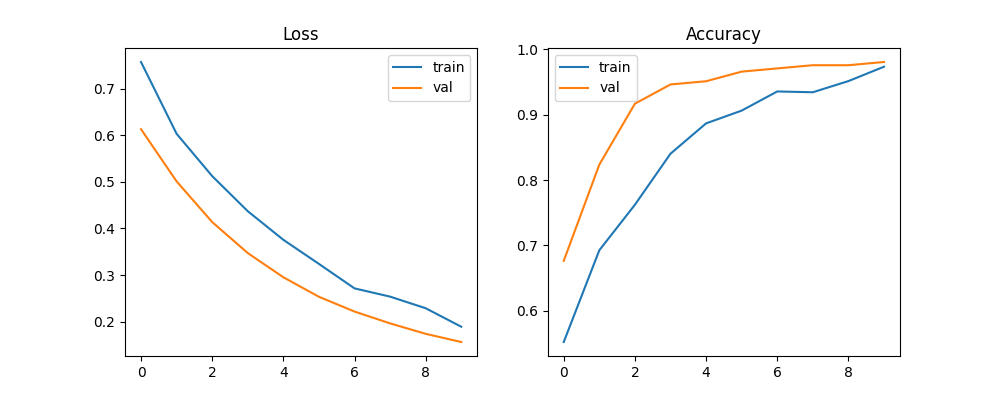
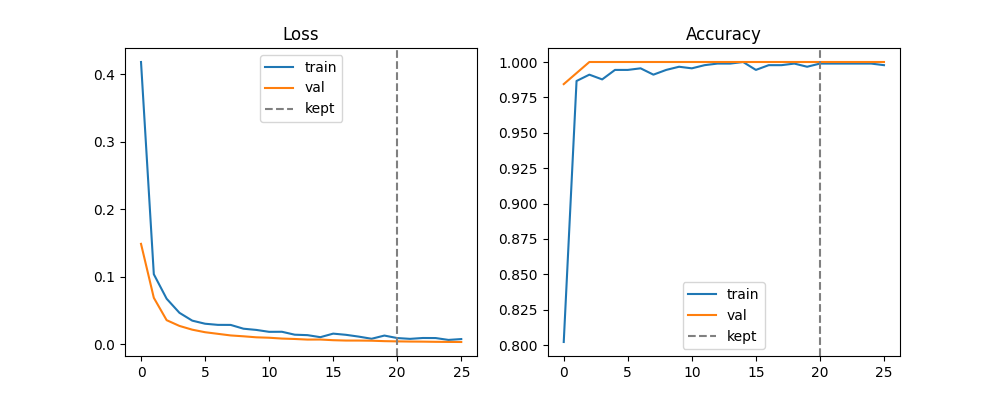
Split dataset by similar photos, add early stopping and retrain model

diff --git a/split_dataset.py b/split_dataset.py
@@ -1,37 +1,102 @@
-# Copies the images into dataset/train and dataset/test for each class,
-# so the test images are never seen during training.
-# Some datasets have the same image saved twice, those copies are skipped.
+# Splits the images into dataset/train, dataset/val and dataset/test.
+# The dataset has many copies of the same photo (saved twice, mirrored, edited
+# or with a mask pasted on), so similar images are put in a group and a whole
+# group always goes to the same folder. Otherwise the model would already have
+# seen most of the test photos and the test accuracy would be too high.
 import argparse
 import hashlib
 import os
 import random
 import shutil
 
+import cv2
+import numpy as np
+
+
+def dhash(img):
+    # 256 bit difference hash, small changes in the image only flip a few bits
+    g = cv2.resize(cv2.cvtColor(img, cv2.COLOR_BGR2GRAY), (17, 16))
+    return (g[:, 1:] > g[:, :-1]).flatten()
+
+
 parser = argparse.ArgumentParser()
 parser.add_argument("--source", required=True, help="folder with with_mask and without_mask")
 parser.add_argument("--dest", default="dataset")
 parser.add_argument("--test", type=float, default=0.2, help="part of images kept for testing")
+parser.add_argument("--val", type=float, default=0.1, help="part of images used for validation")
+parser.add_argument("--max-diff", type=int, default=44, help="hash bits (of 256) that can differ for two similar images")
 args = parser.parse_args()
 
-random.seed(42)
+classes = ("with_mask", "without_mask")
+files = []
+whole, mirror, top, top_mirror = [], [], [], []
 seen = set()
-for cls in ("with_mask", "without_mask"):
-    files = []
-    skipped = 0
+skipped = 0
+for cls in classes:
     for name in sorted(os.listdir(os.path.join(args.source, cls))):
-        with open(os.path.join(args.source, cls, name), "rb") as f:
-            h = hashlib.md5(f.read()).hexdigest()
-        if h in seen:
+        path = os.path.join(args.source, cls, name)
+        with open(path, "rb") as f:
+            md5 = hashlib.md5(f.read()).hexdigest()
+        img = cv2.imread(path)
+        if md5 in seen or img is None:
             skipped += 1
             continue
-        seen.add(h)
-        files.append(name)
+        seen.add(md5)
+        files.append((cls, name))
+        upper = img[: img.shape[0] // 2]  # eyes and hair, not covered by a mask
+        whole.append(dhash(img))
+        mirror.append(dhash(cv2.flip(img, 1)))
+        top.append(dhash(upper))
+        top_mirror.append(dhash(cv2.flip(upper, 1)))
+print(len(files), "images,", skipped, "exact copies or unreadable files skipped")
 
-    random.shuffle(files)
-    n_test = int(len(files) * args.test)
-    for i, name in enumerate(files):
-        part = "test" if i < n_test else "train"
+whole, mirror = np.array(whole), np.array(mirror)
+top, top_mirror = np.array(top), np.array(top_mirror)
+
+# join similar images into groups (union find)
+parent = list(range(len(files)))
+
+
+def find(i):
+    while parent[i] != i:
+        parent[i] = parent[parent[i]]
+        i = parent[i]
+    return i
+
+
+for i in range(len(files)):
+    d_whole = np.minimum((whole != whole[i]).sum(1), (mirror != whole[i]).sum(1))
+    d_top = np.minimum((top != top[i]).sum(1), (top_mirror != top[i]).sum(1))
+    for j in np.where((d_whole <= args.max_diff) | (d_top <= args.max_diff))[0]:
+        parent[find(j)] = find(i)
+
+groups = {}
+for i in range(len(files)):
+    groups.setdefault(find(i), []).append(i)
+groups = list(groups.values())
+print(len(groups), "groups of similar photos, biggest has", max(len(g) for g in groups), "images")
+
+# fill test first, then val, the rest is train
+random.seed(42)
+random.shuffle(groups)
+n_test = args.test * len(files)
+n_val = args.val * len(files)
+counts = {part: {cls: 0 for cls in classes} for part in ("train", "val", "test")}
+used = 0
+for g in groups:
+    if used < n_test:
+        part = "test"
+    elif used < n_test + n_val:
+        part = "val"
+    else:
+        part = "train"
+    used += len(g)
+    for i in g:
+        cls, name = files[i]
         out = os.path.join(args.dest, part, cls)
         os.makedirs(out, exist_ok=True)
         shutil.copy(os.path.join(args.source, cls, name), out)
-    print(cls, len(files) - n_test, "train", n_test, "test", skipped, "duplicates skipped")
+        counts[part][cls] += 1
+
+for part in ("train", "val", "test"):
+    print(part, counts[part])

diff --git a/train_mask_model.py b/train_mask_model.py
@@ -3,6 +3,7 @@
 Dataset folder layout (made by split_dataset.py):
     dataset/train/with_mask/*.jpg
     dataset/train/without_mask/*.jpg
+    dataset/val/...  same two folders, used to decide when to stop
 """
 import argparse
 import os
@@ -16,17 +17,17 @@ IMG_SIZE = 224
 BATCH_SIZE = 32
 
 parser = argparse.ArgumentParser()
-parser.add_argument("--dataset", default="dataset/train")
-parser.add_argument("--epochs", type=int, default=10)
+parser.add_argument("--dataset", default="dataset")
+parser.add_argument("--epochs", type=int, default=50, help="most runs stop earlier")
 parser.add_argument("--output", default="mask_model")
 args = parser.parse_args()
 
 # folders are read in alphabetical order, so with_mask = 0 and without_mask = 1
 train_ds = tf.keras.utils.image_dataset_from_directory(
-    args.dataset, validation_split=0.2, subset="training", seed=42,
+    os.path.join(args.dataset, "train"), seed=42,
     image_size=(IMG_SIZE, IMG_SIZE), batch_size=BATCH_SIZE, label_mode="binary")
 val_ds = tf.keras.utils.image_dataset_from_directory(
-    args.dataset, validation_split=0.2, subset="validation", seed=42,
+    os.path.join(args.dataset, "val"), shuffle=False,
     image_size=(IMG_SIZE, IMG_SIZE), batch_size=BATCH_SIZE, label_mode="binary")
 print("Classes:", train_ds.class_names)
 
@@ -54,11 +55,23 @@ x = tf.keras.layers.Dropout(0.3)(x)
 outputs = tf.keras.layers.Dense(1, activation="sigmoid")(x)  # chance of no mask
 model = tf.keras.Model(inputs, outputs)
 
-model.compile(optimizer=tf.keras.optimizers.Adam(learning_rate=1e-4),
+model.compile(optimizer=tf.keras.optimizers.Adam(learning_rate=1e-3),
               loss="binary_crossentropy", metrics=["accuracy"])
 model.summary()
 
-history = model.fit(train_ds, validation_data=val_ds, epochs=args.epochs)
+# stop when the val loss has not gone down by at least 0.001 for 5 epochs
+# and go back to the best weights
+early_stop = tf.keras.callbacks.EarlyStopping(monitor="val_loss", min_delta=0.001, patience=5,
+                                              restore_best_weights=True)
+history = model.fit(train_ds, validation_data=val_ds, epochs=args.epochs,
+                    callbacks=[early_stop])
+# weights are only put back if training stopped early, else the last epoch is kept
+if early_stop.stopped_epoch > 0:
+    best = early_stop.best_epoch
+else:
+    best = len(history.history["val_loss"]) - 1
+print("Kept epoch %d of %d, val accuracy %.4f" % (best + 1, len(history.history["val_loss"]),
+                                                 history.history["val_accuracy"][best]))
 
 model.save(args.output + ".h5")
 
@@ -76,11 +89,13 @@ plt.figure(figsize=(10, 4))
 plt.subplot(1, 2, 1)
 plt.plot(history.history["loss"], label="train")
 plt.plot(history.history["val_loss"], label="val")
+plt.axvline(best, color="gray", linestyle="--", label="kept")
 plt.title("Loss")
 plt.legend()
 plt.subplot(1, 2, 2)
 plt.plot(history.history["accuracy"], label="train")
 plt.plot(history.history["val_accuracy"], label="val")
+plt.axvline(best, color="gray", linestyle="--", label="kept")
 plt.title("Accuracy")
 plt.legend()
 os.makedirs("results", exist_ok=True)

diff --git a/README.md b/README.md
@@ -62,7 +62,7 @@ Pins and limits can be changed in `config.py`.
 | `hardware_test.py` | Tests buzzer, servo, IR sensors, ultrasonic and temperature sensor one by one |
 | `mlx90614_sensor_testing.py` | Prints readings from the MLX90614 to test the wiring |
 | `get_face_detector.py` | Downloads the face detector weights into `face_detector/` |
-| `split_dataset.py` | Splits the images into train and test folders and removes duplicate images |
+| `split_dataset.py` | Splits the images into train, val and test folders, keeping copies of the same photo together |
 | `train_mask_model.py` | Trains the mask model on a PC and saves `.h5` and `.tflite` |
 | `evaluate_model.py` | Tests the `.tflite` model on the test images |
 | `results/` | Training plot and confusion matrix |
@@ -72,21 +72,38 @@ Pins and limits can be changed in `config.py`.
 ### Dataset
 
 We used the face mask dataset by Prajna Bhandary ([prajnasb/observations](https://github.com/prajnasb/observations), folder `experiements/data`).
-It has 690 images with a mask and 686 without. 97 of them are exact copies of other images, so `split_dataset.py` removes those
-before splitting. That leaves 644 with mask and 635 without, split 80 / 20 into train and test.
+It has 690 images with a mask and 686 without.
+
+This dataset has many copies of the same photo. 97 files are exact copies, the `augmented_image_*` files are mirrored or edited
+versions of other photos and the "with mask" images are the "without mask" photos with a mask pasted on.
+If copies of a photo end up in both train and test, the model has already seen the test photos and the accuracy looks better than it is.
+
+`split_dataset.py` handles this. It removes the exact copies, then compares every image using a 256 bit image hash
+(also of the mirrored image and of the top half only, which a mask does not cover) and puts similar images in one group.
+A whole group always goes into the same folder. The limit of 44 different bits was picked by looking at image pairs:
+up to 44 they were all the same photo, above it different people with the same background started to show up.
 
 ```
 python split_dataset.py --source observations/experiements/data
 ```
 
+This gives 1279 images in 679 groups:
+
+| Folder | with_mask | without_mask |
+|---|---|---|
+| train | 453 | 442 |
+| val | 62 | 66 |
+| test | 129 | 127 |
+
 ### Training
 
 Done on a PC, not on the Pi. MobileNetV2 trained on ImageNet is used as the base and only the new top layers are trained
-(10 epochs, Adam, learning rate 0.0001). 20% of the train images are used for validation.
+(Adam, learning rate 0.001). Training stops when the val loss has not gone down by at least 0.001 for 5 epochs
+and the weights of the best epoch are kept. In our run it stopped after 26 epochs and kept epoch 21.
 
 ```
 pip install -r requirements-train.txt
-python train_mask_model.py --epochs 10
+python train_mask_model.py
 ```
 
 This saves `mask_model.h5` (not kept in the repo), `mask_model.tflite` and `results/training_plot.png`.
@@ -96,7 +113,8 @@ The TFLite model is saved with float16 weights. The default 8 bit version was sm
 
 ### Results
 
-`evaluate_model.py` runs the `.tflite` model on the 255 test images that were never used in training.
+`evaluate_model.py` runs the `.tflite` model on the 256 test images. None of them, or any copy of them,
+was used for training or for deciding when to stop.
 
 ```
 python evaluate_model.py
@@ -104,24 +122,28 @@ python evaluate_model.py
 
 | | Precision | Recall |
 |---|---|---|
-| with_mask (128 images) | 1.000 | 0.953 |
-| without_mask (127 images) | 0.955 | 1.000 |
+| with_mask (129 images) | 1.000 | 0.992 |
+| without_mask (127 images) | 0.992 | 1.000 |
 
-Test accuracy: **97.65%** (249 of 255).
-No person without a mask was classified as wearing one. 6 people with a mask were classified as no mask, so they would be asked to try again.
+Test accuracy: **99.61%** (255 of 256).
+No person without a mask was classified as wearing one. 1 person with a mask was classified as no mask and would be asked to try again.
 
 ![Confusion matrix](results/confusion_matrix.png)
 
-The masks in the "with mask" images of this dataset were added to normal face photos, so they all look alike.
-Real masks of other colours and shapes can give lower accuracy. Adding real photos to `dataset/train` and training again will help.
+All masks in this dataset are the same pasted blue mask, so the test is easy for the model.
+Real masks of other colours and shapes can give lower accuracy. Adding real photos to the dataset and training again will help.
 
 ## Running on the Raspberry Pi
 
+Written for Raspberry Pi OS Bullseye (Python 3.9) with the legacy camera stack.
+
 1. Enable I2C and the legacy camera in `sudo raspi-config`.
-2. Install the libraries:
+2. Install the libraries. numpy and OpenCV from piwheels need the ATLAS library on the 32 bit OS:
    ```
+   sudo apt install libatlas-base-dev
    pip3 install -r requirements.txt
    ```
+   If OpenCV still says a `.so` file is missing, the opencv-python page on piwheels.org lists the other system packages it needs.
 3. Download the face detector weights:
    ```
    python3 get_face_detector.py
@@ -138,7 +160,8 @@ Real masks of other colours and shapes can give lower accuracy. Adding real phot
    python3 sentinel.py
    ```
 
-Press Ctrl+C to stop. The door closes and the GPIO pins are cleaned up.
+The model, face detector and log paths are taken from the project folder, so `sentinel.py` can also be started from
+another folder, for example at boot. Press Ctrl+C to stop. The door closes and the GPIO pins are cleaned up.
 
 ## Prototype
 
